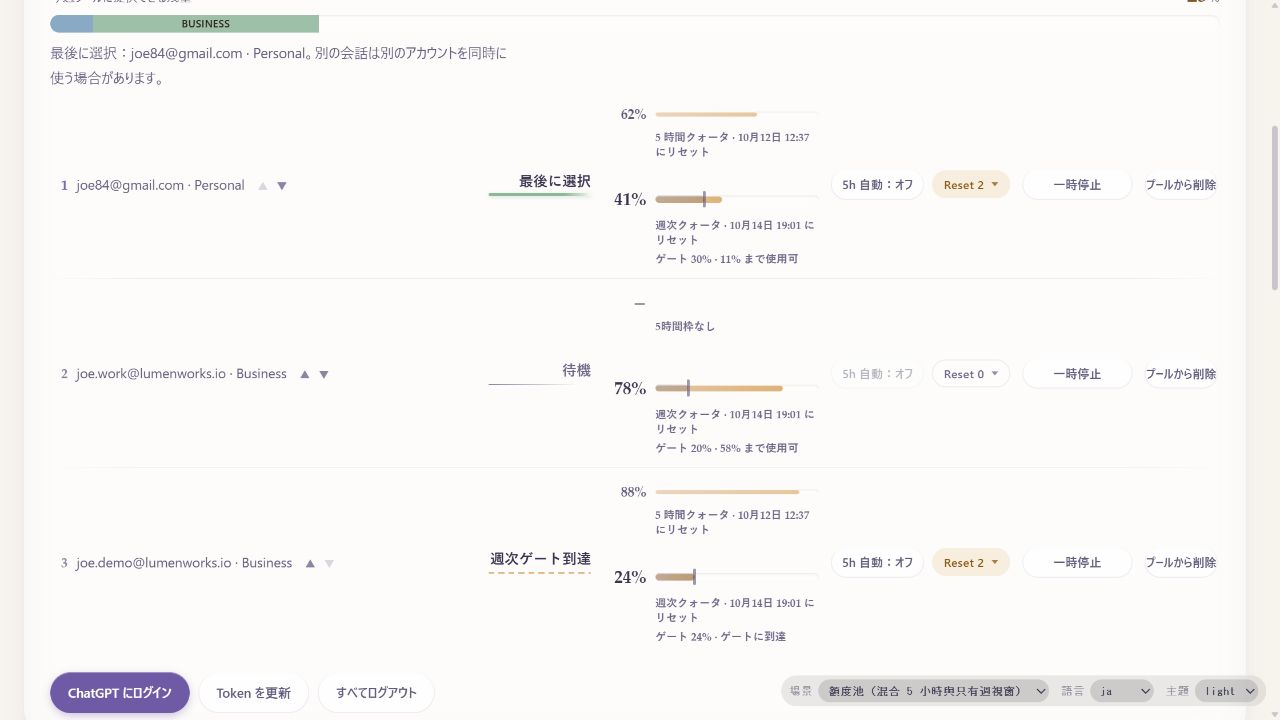
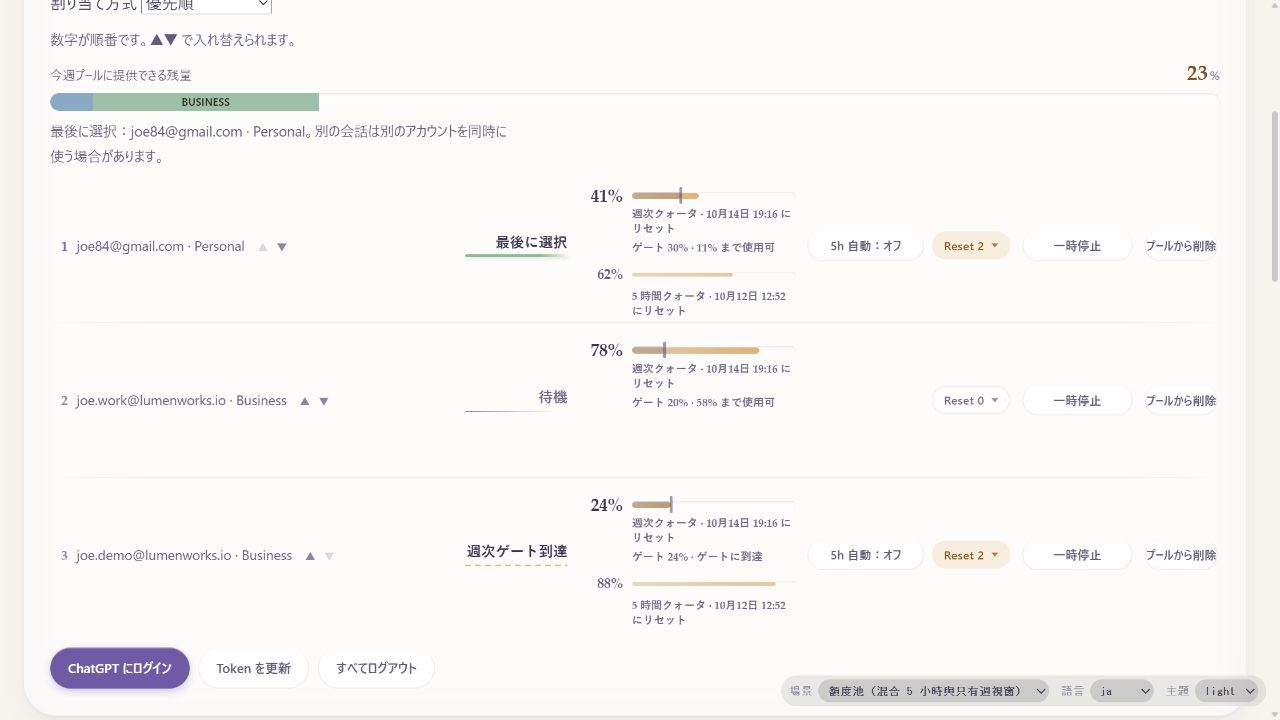
fix: align weekly quota without absent five-hour placeholders

diff --git a/src/i18n/locales/ja.ts b/src/i18n/locales/ja.ts
@@ -241,7 +241,7 @@ const ja: ResourceTree = {
       "pool": { "strategyLabel": "割り当て方式", "strategyRank": "優先順", "strategyBalanced": "スマート均等配分", "balancedHint": "新しい会話は、各アカウントの残り容量に対する進行中の context 負荷で配分します。アカウントの大きさはプラン（Plus 1x、Pro 20x）から始め、Vellum 経由の実測スループットが十分に貯まると置き換えます。既存の会話はキャッシュを保つため同じアカウントを優先します。番号は同点時の優先順です。", "lastSelected": "最後に選択：{{account}}。別の会話は別のアカウントを同時に使う場合があります。", "selectedLast": "最後に選択", "title": "クォータプール", "onHint": "プール内のアカウントが自動で引き受けます。各アカウントの週次枠の一部を予約として残せます。", "offHint": "オフの間は手動選択が続き、新しいリクエストは選択中のアカウントを使います。", "rules": "判定ルール", "rulesTitle": "クォータプールの判定ルール", "rankHint": "数字が順番です。▲▼ で入れ替えられます。", "availableThisWeek": "今週プールに提供できる残量", "availablePercent": "今週は {{value}}% まで利用可能", "currentAndNext": "現在は {{current}} を使用中。次は {{next}} です。", "stalled": "自動のクォータ判定を通過したアカウントはありません。送信時は有効なアカウントを試します。", "empty": "プールは空です。下のアカウントで「プールに追加」を押すとローテーションが始まります。", "using": "使用中", "next": "次", "standby": "待機", "outside": "プール外", "pause": "一時停止", "resume": "再開", "add": "プールに追加", "remove": "プールから削除", "moveUp": "順番を上げる", "moveDown": "順番を下げる", "burnable": "{{value}}% まで使用可", "atGate": "ゲートに到達", "gateRead": "ゲート {{floor}}%", "gateLabel": "{{account}} の週次ゲート", "gateValue": "ゲート {{floor}}%、今週の残り {{left}}%", "saveFailed": "クォータプールを保存できませんでした：{{detail}}", "reason": { "paused": "一時停止中", "weeklyGate": "週次ゲート到達", "fiveHour": "5 時間枠切れ", "missingQuota": "クォータ不明" }, "rule": { "smart": {"title": "スマート配分とキャッシュ", "body": "進行中の context 負荷を各アカウントの残り容量（週次と 5 時間枠の割合 × アカウントの大きさ。最初はプランから、その後は実測スループットから）と比較します。既存の会話は同じアカウントを維持し、明示的な新しい context window で再配分を検討します。キャッシュ率と context が大きいほど切り替え基準が上がります。クォータの基準を満たさない場合は切り替えます。会話を識別できない場合は優先順を使います。キャッシュは上流が制御し、token 推定は実際のクォータ消費量ではありません。"}, "gate": { "title": "ゲートは下限", "body": "週次ゲートに達した時点で自動利用を止め、ゲートより下の分は予約として残します。100% にするとそのアカウントには一切回しません。" }, "fiveHour": { "title": "5 時間枠は読み取り専用", "body": "これは上流側の制限です。使い切るとそのアカウントは待機し、リセット後に戻ります。" }, "order": { "title": "順番は自分で決める", "body": "数字がローテーションの順番です。▲▼ で調整します。今使えないアカウントは飛ばされ、ほかの順番は変わりません。" }, "pause": { "title": "一時停止と削除", "body": "一時停止は設定を残したまま一時的に外し、削除するとローテーションで使われなくなります。" }, "reset": { "title": "Reset は手動のみ", "body": "プールが Reset を自動で消費することはありません。手動でリセットしてもゲートの値はそのままです。" }, "empty": { "title": "自動切り替え先なし", "body": "プール内の全アカウントが制限された場合、手動で選択したアカウントを試し、上流の利用制限エラーを表示します。" } } },
       "oauth": { "code": "認証コード", "loginPage": "ログインページ", "browserHint": "ブラウザを開きました。認証後にこのページが更新されます。", "copied": "認証コードをコピーしました", "copyFailed": "コピーできませんでした。コードを手動で選択してください", "copy": "認証コードをコピー", "waiting": "認証を待機中…", "waitingBrowser": "ブラウザ認証を待機中", "login": "ChatGPT にログイン", "refreshToken": "Token を更新", "logoutAll": "すべてログアウト" },
       "account": { "active": "使用中", "authenticated": "ログイン済み", "current": "現在のアカウント", "useThis": "これを使用" }, "quota": { "failed": "クォータを取得できません", "loading": "クォータを確認中", "retry": "再確認" }, "reset": { "show": "失効日を表示", "hide": "失効日を隠す", "ledgerTitle": "利用上限のリセット", "noneUsable": "このアカウントに使える Reset はありません。", "untitled": "Reset 枠", "spent": "使用済み", "lapsed": "失効", "noExpiry": "失効日は返ってきていません", "failed": "Reset を確認できません", "loading": "Reset を確認中", "use": "リセットを使う" },
-      "fiveHour": { "unavailable": "5時間枠なし", "start": "5h を開始", "starting": "開始中…", "hint": "このアカウントでごく小さな Luna リクエストを 1 件送信し、5 時間の利用枠を開始します。少量のクォータを使用しますが、Reset 枠は消費しません。", "success": "5 時間の利用枠を開始し、使用量を更新しました。", "failed": "5 時間の利用枠を開始できませんでした：{{detail}}", "refreshFailed": "開始リクエストは完了しましたが、使用量を更新できませんでした：{{detail}}", "autoOn": "5h 自動：オン", "autoOff": "5h 自動：オフ", "autoHint": "現在のクォータと resetAt に基づいて 5 時間枠を継続します。旧枠が期限切れで週次残量がゲートを上回る場合のみ、Luna と最小 effort で極小リクエストを送信し、判断はエクスポート可能なログに記録します。" },
+      "fiveHour": { "start": "5h を開始", "starting": "開始中…", "hint": "このアカウントでごく小さな Luna リクエストを 1 件送信し、5 時間の利用枠を開始します。少量のクォータを使用しますが、Reset 枠は消費しません。", "success": "5 時間の利用枠を開始し、使用量を更新しました。", "failed": "5 時間の利用枠を開始できませんでした：{{detail}}", "refreshFailed": "開始リクエストは完了しましたが、使用量を更新できませんでした：{{detail}}", "autoOn": "5h 自動：オン", "autoOff": "5h 自動：オフ", "autoHint": "現在のクォータと resetAt に基づいて 5 時間枠を継続します。旧枠が期限切れで週次残量がゲートを上回る場合のみ、Luna と最小 effort で極小リクエストを送信し、判断はエクスポート可能なログに記録します。" },
       "grok": { "title": "Grok アカウント", "description": "Grok Build の新規リクエストは現在のアカウントを使用します。切り替えは即時反映され、実行中のリクエストは元のアカウントを使います。", "loginStatus": "ログイン状態", "browserHint": "公式 Grok CLI のログイン処理を開始しました。認証後にアカウントが追加されます。", "loginIncomplete": "公式ログイン処理が完了しませんでした。", "defaultAccount": "Grok CLI の既定アカウント", "externalCli": "外部 CLI", "managed": "Vellum 管理", "reauthenticate": "再認証", "refreshModels": "Grok モデルを再検出", "unlink": "リンク解除", "empty": "利用可能な Grok アカウントはありません。", "add": "Grok アカウントを追加" },
       "opencode": { "title": "OpenCode Zen", "description": "API key だけで接続できます。これは OpenCode 公式アプリが既定で表示する内容と同じで、無料モデルのみです。有料の Zen モデルにはこの接続では確認できない購入済みクレジットが必要なため、実際にお持ちの場合は下の手動 Add Provider フローで追加してください。", "descriptionGo": "API key だけで接続できます。OpenCode Go は別のエンドポイントを持つ独立した小さいカタログで、OpenCode Zen にある GPT/Claude/Gemini などの上位モデルは含まれません。お使いの key が Go プランの場合はこちらを選んでください。Go 自体のエンドポイントは無料モデルを受け付けないため、Vellum は OpenCode Zen の無料モデルも別の Provider として自動的に接続します。", "freeRouteName": "{{name}}（無料モデル）", "catalog": "カタログ", "catalogZen": "OpenCode Zen（無料モデル）", "catalogGo": "OpenCode Go", "catalogHint": "実際に契約しているプランを選んでください。Zen は無料モデルのみに接続し、Go は Go プランのカタログに加えて同じ無料モデルも自動的に接続します。", "apiKey": "OpenCode Zen API key", "apiKeyPlaceholder": "OpenCode Zen API key を貼り付け", "connect": "接続", "connecting": "接続中…", "connected": "接続済み" },
       "addProvider": { "title": "Provider を追加", "steps": { "endpoint": "エンドポイントを接続", "endpointHint": "Provider のモデル一覧を取得します。", "probe": "選択して検証", "probeHint": "モデルを選び、そのモデルの Codex プロトコル対応だけを検証します。", "add": "追加", "addHint": "結果を確認して Codex モデルカタログに追加します。" }, "endpoint": "エンドポイント URL", "apiKey": "API key（任意・暗号化保存）", "apiKeyPlaceholder": "ローカルまたはアカウント認証済みのエンドポイントは空欄で可", "startProbe": "モデル一覧を取得", "probing": "モデル一覧を取得中…", "add": "Provider を追加", "reprobe": "やり直す" },

diff --git a/src/i18n/locales/zh-CN.ts b/src/i18n/locales/zh-CN.ts
@@ -241,7 +241,7 @@ const zhCN: ResourceTree = {
       "pool": { "strategyLabel": "分配策略", "strategyRank": "按顺序", "strategyBalanced": "智能均衡", "balancedHint": "新对话按活跃 context 负载相对于各账号剩余容量来分配。账号大小先按方案估计（Plus 1x、Pro 20x），经 Vellum 路由的实测吞吐足够后改用实测值；已有对话优先保留账号与缓存。编号作为同分时的优先顺序。", "lastSelected": "最近选取：{{account}}。不同对话可能同时使用不同账号。", "selectedLast": "最近选取", "title": "额度池", "onHint": "池里的账号会自动接手；每个账号可以保留一段每周额度。", "offHint": "关闭时维持手动切换，新请求使用你选定的账号。", "rules": "判定规则", "rulesTitle": "额度池判定规则", "rankHint": "左边的编号就是顺序，用 ▲▼ 调整。", "availableThisWeek": "这周还可以自动取用", "availablePercent": "池内这周还可以自动取用 {{value}}%", "currentAndNext": "现在由 {{current}} 取用，接着是 {{next}}。", "stalled": "目前没有通过自动额度判断的账号；发送时仍会尝试有效账号。", "empty": "池是空的。从下面的账号点「加入池」才会开始自动轮替。", "using": "取用中", "next": "下一个", "standby": "待命", "outside": "未加入池", "pause": "暂停", "resume": "恢复", "add": "加入池", "remove": "移出池", "moveUp": "往前一个顺位", "moveDown": "往后一个顺位", "burnable": "可用 {{value}}%", "atGate": "已到门槛", "gateRead": "门槛 {{floor}}%", "gateLabel": "{{account}} 的每周门槛", "gateValue": "门槛 {{floor}}%，这周剩 {{left}}%", "saveFailed": "无法保存额度池：{{detail}}", "reason": { "paused": "已暂停", "weeklyGate": "每周窗到门槛", "fiveHour": "5 小时窗用完", "missingQuota": "额度数据不全" }, "rule": { "smart": {"title": "智能均衡与缓存", "body": "把活跃对话的 context 负载与各账号的剩余容量比较：周额度与 5 小时额度的可用比例 × 账号大小（先按方案估计，之后改用实测吞吐）。已有对话保持账号，遇到明确的新 context window 才评估重新分配；缓存命中越高、context 越大，切换门槛越高。账号不符合额度门槛时会换账号。无法识别对话时按顺序取用。缓存由上游决定，token 估计不等于实际额度消耗。"}, "gate": { "title": "门槛是保留下限", "body": "每周用量到门槛时就停手，门槛以下的额度留给你自己；设成 100% 就完全不交给自动轮替。" }, "fiveHour": { "title": "5 小时窗口只读", "body": "这是上游限流；归零时暂时轮不到，重置后会自动回来。" }, "order": { "title": "顺序由你决定", "body": "编号就是轮替顺序，用 ▲▼ 调整；暂时用不了的账号会被跳过，其余账号的先后不变。" }, "pause": { "title": "暂停与移出", "body": "暂停会保留设置但暂时不用；移出后自动轮替不会再碰它。" }, "reset": { "title": "不自动花掉 Reset", "body": "额度池不会自动消耗 Reset；手动重置后门槛维持原值。" }, "empty": { "title": "自动轮替无可用账号", "body": "池内账号都受限时，会尝试手动选择的账号，并显示上游返回的额度错误。" } } },
       "oauth": { "code": "授权码", "loginPage": "登录页面", "browserHint": "浏览器已打开，完成授权后这里会自动更新。", "copied": "授权码已复制", "copyFailed": "复制失败，请手动选择授权码", "copy": "复制授权码", "waiting": "等待授权…", "waitingBrowser": "等待浏览器授权", "login": "登录 ChatGPT", "refreshToken": "更新 Token", "logoutAll": "全部登出" },
       "account": { "active": "使用中", "authenticated": "已登录", "current": "当前账号", "useThis": "改用这个" }, "quota": { "failed": "额度查询失败", "loading": "额度查询中", "retry": "重新查询" }, "reset": { "show": "展开每张 Reset 的到期时间", "hide": "收起每张 Reset 的到期时间", "ledgerTitle": "用量上限重设", "noneUsable": "这个账号没有可用的 Reset。", "untitled": "Reset 额度", "spent": "已用掉", "lapsed": "已过期", "noExpiry": "上游没有给到期时间", "failed": "Reset 查询失败", "loading": "Reset 查询中", "use": "使用重置" },
-      "fiveHour": { "unavailable": "无 5 小时窗口", "start": "启动 5h", "starting": "启动中…", "hint": "使用这个账号发送一笔极小的 Luna 请求，以启动 5 小时用量窗口。会消耗少量额度，但不会使用 Reset。", "success": "已触发 5 小时窗口并刷新用量。", "failed": "无法触发 5 小时窗口：{{detail}}", "refreshFailed": "触发请求已完成，但无法刷新用量：{{detail}}", "autoOn": "5h 自动：开", "autoOff": "5h 自动：关", "autoHint": "根据当前额度和 resetAt 自动续接 5 小时窗口。仅在旧窗口已到期且每周额度仍高于门槛时，使用 Luna、最低 effort 发送一笔极小请求；判断会写入可导出的 Vellum 日志。" },
+      "fiveHour": { "start": "启动 5h", "starting": "启动中…", "hint": "使用这个账号发送一笔极小的 Luna 请求，以启动 5 小时用量窗口。会消耗少量额度，但不会使用 Reset。", "success": "已触发 5 小时窗口并刷新用量。", "failed": "无法触发 5 小时窗口：{{detail}}", "refreshFailed": "触发请求已完成，但无法刷新用量：{{detail}}", "autoOn": "5h 自动：开", "autoOff": "5h 自动：关", "autoHint": "根据当前额度和 resetAt 自动续接 5 小时窗口。仅在旧窗口已到期且每周额度仍高于门槛时，使用 Luna、最低 effort 发送一笔极小请求；判断会写入可导出的 Vellum 日志。" },
       "grok": { "title": "Grok 账号", "description": "Grok Build 的新请求会使用当前账号。切换立即生效，进行中的请求不会中途更换账号。", "loginStatus": "登录状态", "browserHint": "官方 Grok CLI 已启动登录流程；完成授权后会自动加入账号。", "loginIncomplete": "官方登录流程尚未完成。", "defaultAccount": "Grok CLI 默认账号", "externalCli": "外部 CLI", "managed": "Vellum 管理", "reauthenticate": "重新验证", "refreshModels": "重新探测 Grok 模型", "unlink": "解除关联", "empty": "目前没有可用的 Grok 账号。", "add": "添加 Grok 账号" },
       "opencode": { "title": "OpenCode Zen", "description": "只要填入 API key 就能连接。这里默认与 OpenCode 官方 App 一致，只显示免费模型。付费 Zen 模型需要购买额度，而这条连接无法查证，如果你确实有购买，请改用下方手动加入 Provider 的流程。", "descriptionGo": "只要填入 API key 就能连接。OpenCode Go 是另一个端点上独立的小型模型库，不包含 OpenCode Zen 的 GPT／Claude／Gemini 等高阶模型；如果你的 key 属于 Go 订阅，就选这个。Go 的端点不接受免费模型，所以 Vellum 会另外把 OpenCode Zen 的免费模型接成第二个 Provider。", "freeRouteName": "{{name}}（免费模型）", "catalog": "模型库", "catalogZen": "OpenCode Zen（免费模型）", "catalogGo": "OpenCode Go", "catalogHint": "请选择你实际拥有的方案。Zen 只连接免费模型；Go 连接 Go 方案的模型库，并自动附带同样的免费模型。", "apiKey": "OpenCode Zen API key", "apiKeyPlaceholder": "粘贴 OpenCode Zen API key", "connect": "连接", "connecting": "连接中…", "connected": "已连接" },
       "addProvider": { "title": "加入 Provider", "steps": { "endpoint": "连接端点", "endpointHint": "获取 Provider 提供的模型列表。", "probe": "选择并验证", "probeHint": "先选择要导入的模型，再只针对该模型验证 Codex 协议能力。", "add": "加入", "addHint": "确认结果并加入 Codex 模型菜单。" }, "endpoint": "端点网址", "apiKey": "API key（选填，加密存放）", "apiKeyPlaceholder": "本机或使用账号登录的端点可留空", "startProbe": "获取模型列表", "probing": "正在获取模型列表…", "add": "加入 Provider", "reprobe": "重新开始" },

diff --git a/src/screens/Models.tsx b/src/screens/Models.tsx
@@ -200,13 +200,13 @@ export function AccountQuota({
   t,
   resetLabel,
   gate = null,
-  reserveFiveHour = false,
+  officialLayout = false,
 }: {
   windows: AccountQuotaPresentation[];
   t: Translate;
   resetLabel: (iso: string | null) => string;
   gate?: AccountQuotaGate | null;
-  reserveFiveHour?: boolean;
+  officialLayout?: boolean;
 }) {
   const binding = windows.reduce<AccountQuotaPresentation | null>(
     (tightest, window) =>
@@ -214,14 +214,8 @@ export function AccountQuota({
     null,
   );
   return (
-    <span className={`acct__quota${reserveFiveHour ? " acct__quota--official" : ""}`}>
-      {reserveFiveHour && !windows.some(isFiveHourQuota) ? (
-        <span className="acct__quota-window acct__quota-window--placeholder">
-          <span className="acct__quota-line"><strong aria-hidden="true">—</strong></span>
-          <small>{t("models.ui.fiveHour.unavailable")}</small>
-        </span>
-      ) : null}
-      {windows.map((window) => {
+    <span className={`acct__quota${officialLayout ? " acct__quota--official" : ""}`}>
+      {(officialLayout ? [...windows].sort((a, b) => Number(isWeeklyQuota(b)) - Number(isWeeklyQuota(a))) : windows).map((window) => {
         // 閘門只設在每週窗。5 小時窗與每週窗的換算會改，拿它當設定值等於把
         // 一個會變的比例寫進使用者的設定裡；每週窗才是硬標準。
         const gated = gate && isWeeklyQuota(window) ? gate : null;
@@ -1700,7 +1694,7 @@ export function Models({
                       </span>
                     }
                   >
-                    <span className={`acct${entry.member.paused ? " acct--paused" : ""}`}>
+                    <span className={`acct acct--official${entry.member.paused ? " acct--paused" : ""}`}>
                       <State
                         tone={
                           rank === 1
@@ -1714,7 +1708,7 @@ export function Models({
                       <span className="acct__actions">
                         {quotaWindows.length ? (
                           <AccountQuota
-                            reserveFiveHour
+                            officialLayout
                             windows={quotaWindows}
                             t={t}
                             resetLabel={resetLabel}
@@ -1754,11 +1748,11 @@ export function Models({
                           </Pill>
                         )}
                         <span className="acct__resets">
-                          <Btn
+                          {entry.fiveHour ? <Btn
                             soft
                             mini
-                            disabled={!entry.fiveHour || quotaPoolBusy || oauthBusy}
-                            title={t(entry.fiveHour ? "models.ui.fiveHour.autoHint" : "models.ui.fiveHour.unavailable")}
+                            disabled={quotaPoolBusy || oauthBusy}
+                            title={t("models.ui.fiveHour.autoHint")}
                             onClick={() =>
                               updatePoolMember(account.accountId, (member) => ({
                                 ...member,
@@ -1771,7 +1765,7 @@ export function Models({
                                 ? "models.ui.fiveHour.autoOn"
                                 : "models.ui.fiveHour.autoOff",
                             )}
-                          </Btn>
+                          </Btn> : null}
                           {resetError || !credits ? (
                             <Pill tone={resetError ? "warn" : "quiet"}>
                               {resetError ? t("models.ui.reset.failed") : t("models.ui.reset.loading")}
@@ -1888,14 +1882,14 @@ export function Models({
               );
               return (
                 <Row key={account.accountId} label={accountLabel}>
-                  <span className="acct">
+                  <span className="acct acct--official">
                     <State
                       tone={isVerifiedCurrent ? "ok" : "quiet"}
                       label={isVerifiedCurrent ? t("models.ui.account.active") : t("models.ui.account.authenticated")}
                     />
                     <span className="acct__actions">
                       {quotaWindows.length ? (
-                        <AccountQuota reserveFiveHour windows={quotaWindows} t={t} resetLabel={resetLabel} />
+                        <AccountQuota officialLayout windows={quotaWindows} t={t} resetLabel={resetLabel} />
                       ) : (
                         <Pill tone={quotaError ? "warn" : "quiet"}>
                           {quotaError ? t("models.ui.quota.failed") : t("models.ui.quota.loading")}
@@ -1907,11 +1901,11 @@ export function Models({
                           個按不動的把手。重試接在同一格，不另外占一欄：那顆
                           按鈕只在出錯時存在，常設欄位會讓整列平常空一格。 */}
                       <span className="acct__resets">
-                        <Btn
+                        {quotaWindows.some(isFiveHourQuota) ? <Btn
                           soft
                           mini
-                          disabled={!quotaWindows.some(isFiveHourQuota) || quotaPoolBusy || oauthBusy}
-                          title={t(quotaWindows.some(isFiveHourQuota) ? "models.ui.fiveHour.autoHint" : "models.ui.fiveHour.unavailable")}
+                          disabled={quotaPoolBusy || oauthBusy}
+                          title={t("models.ui.fiveHour.autoHint")}
                           onClick={() =>
                             updatePoolMember(account.accountId, (member) => ({
                               ...member,
@@ -1924,7 +1918,7 @@ export function Models({
                               ? "models.ui.fiveHour.autoOn"
                               : "models.ui.fiveHour.autoOff",
                           )}
-                        </Btn>
+                        </Btn> : null}
                         {resetError || !credits ? (
                           <Pill tone={resetError ? "warn" : "quiet"}>
                             {resetError

diff --git a/src/i18n/locales/zh-TW.ts b/src/i18n/locales/zh-TW.ts
@@ -249,7 +249,7 @@ const zhTW: ResourceTree = {
       "oauth": { "code": "授權碼", "loginPage": "登入頁面", "browserHint": "瀏覽器已開啟，完成授權後這裡會自動更新。", "copied": "授權碼已複製", "copyFailed": "複製失敗，請手動選取授權碼", "copy": "複製授權碼", "waiting": "等待授權…", "waitingBrowser": "等待瀏覽器授權", "login": "登入 ChatGPT", "refreshToken": "更新 Token", "logoutAll": "全部登出" },
       "account": { "active": "使用中", "authenticated": "已登入", "current": "目前帳號", "useThis": "改用這個" },
       "quota": { "failed": "額度查詢失敗", "loading": "額度查詢中", "retry": "重新查詢" }, "reset": { "show": "展開每張 Reset 的到期時間", "hide": "收起每張 Reset 的到期時間", "ledgerTitle": "用量上限重設", "noneUsable": "這個帳號沒有可用的 Reset。", "untitled": "Reset 額度", "spent": "已用掉", "lapsed": "已過期", "noExpiry": "上游沒有給到期時間", "failed": "Reset 查詢失敗", "loading": "Reset 查詢中", "use": "使用重置" },
-      "fiveHour": { "unavailable": "無 5 小時視窗", "start": "啟動 5h", "starting": "啟動中…", "hint": "使用這個帳號送出一筆極小的 Luna 請求，以啟動 5 小時用量視窗。會消耗少量額度，但不會使用 Reset。", "success": "已觸發 5 小時視窗並重新讀取用量。", "failed": "無法觸發 5 小時視窗：{{detail}}", "refreshFailed": "觸發請求已完成，但無法重新讀取用量：{{detail}}", "autoOn": "5h 自動：開", "autoOff": "5h 自動：關", "autoHint": "依目前額度與 resetAt 自動續接 5 小時視窗。只有舊視窗已到期且每週額度仍高於閘門時，才用 Luna、最低 effort 送出一筆極小請求；判斷會寫入可匯出的 Vellum log。" },
+      "fiveHour": { "start": "啟動 5h", "starting": "啟動中…", "hint": "使用這個帳號送出一筆極小的 Luna 請求，以啟動 5 小時用量視窗。會消耗少量額度，但不會使用 Reset。", "success": "已觸發 5 小時視窗並重新讀取用量。", "failed": "無法觸發 5 小時視窗：{{detail}}", "refreshFailed": "觸發請求已完成，但無法重新讀取用量：{{detail}}", "autoOn": "5h 自動：開", "autoOff": "5h 自動：關", "autoHint": "依目前額度與 resetAt 自動續接 5 小時視窗。只有舊視窗已到期且每週額度仍高於閘門時，才用 Luna、最低 effort 送出一筆極小請求；判斷會寫入可匯出的 Vellum log。" },
       "grok": { "title": "Grok 帳號", "description": "Grok Build 的新請求會使用目前帳號。切換立刻生效，進行中的請求不會中途更換帳號。", "loginStatus": "登入狀態", "browserHint": "官方 Grok CLI 已啟動登入流程；完成授權後會自動加入帳號。", "loginIncomplete": "官方登入流程尚未完成。", "defaultAccount": "Grok CLI 預設帳號", "externalCli": "外部 CLI", "managed": "Vellum 管理", "reauthenticate": "重新驗證", "refreshModels": "重新偵測 Grok 模型", "unlink": "解除連結", "empty": "目前沒有可用的 Grok 帳號。", "add": "新增 Grok 帳號" },
       "opencode": { "title": "OpenCode Zen", "description": "只要填入 API key 就能連線。這裡預設跟 OpenCode 官方 App 一樣，只顯示免費模型。付費 Zen 模型需要購買額度，而這個連線無法查證，如果你確實有購買，請改用下方手動加入 Provider 的流程。", "descriptionGo": "只要填入 API key 就能連線。OpenCode Go 是另一個端點上獨立的小型模型庫，不含 OpenCode Zen 的 GPT／Claude／Gemini 等進階模型；如果你的 key 屬於 Go 訂閱，就選這個。Go 的端點不接受免費模型，所以 Vellum 會另外把 OpenCode Zen 的免費模型接成第二個 Provider。", "freeRouteName": "{{name}}（免費模型）", "catalog": "模型庫", "catalogZen": "OpenCode Zen（免費模型）", "catalogGo": "OpenCode Go", "catalogHint": "請選擇你實際擁有的方案。Zen 只連線免費模型；Go 連線 Go 方案的模型庫，並自動附帶同樣的免費模型。", "apiKey": "OpenCode Zen API key", "apiKeyPlaceholder": "貼上 OpenCode Zen API key", "connect": "連線", "connecting": "連線中…", "connected": "已連線" },
       "addProvider": { "title": "加入 Provider", "steps": { "endpoint": "連接端點", "endpointHint": "取得 Provider 提供的模型清單。", "probe": "選擇並驗證模型", "probeHint": "先選擇要匯入的模型，再針對該模型驗證 Codex 協定能力。", "add": "加入", "addHint": "確認結果並加入 Codex 模型選單。" }, "endpoint": "端點網址", "apiKey": "API key（選填，加密存放）", "apiKeyPlaceholder": "本機或用帳號登入的端點可留空", "startProbe": "取得模型清單", "probing": "正在取得模型清單…", "add": "加入 Provider", "reprobe": "重新設定" },

diff --git a/src/i18n/locales/en.ts b/src/i18n/locales/en.ts
@@ -250,7 +250,7 @@ const en: ResourceTree = {
       "account": { "active": "Active", "authenticated": "Signed in", "current": "Current account", "useThis": "Use this" },
       "quota": { "failed": "Quota lookup failed", "loading": "Checking quota…", "retry": "Check again" },
       "reset": { "show": "Show expiry dates", "hide": "Hide expiry dates", "ledgerTitle": "Usage limit resets", "noneUsable": "No usable Reset credit on this account.", "untitled": "Reset credit", "spent": "Used", "lapsed": "Expired", "noExpiry": "No expiry date given", "failed": "Reset lookup failed", "loading": "Checking Reset…", "use": "Use reset" },
-      "fiveHour": { "unavailable": "No 5-hour window", "start": "Start 5h", "starting": "Starting…", "hint": "Send one tiny Luna request on this account to start its 5-hour usage window. This uses a small amount of quota and does not spend a Reset credit.", "success": "The 5-hour window was triggered and usage was refreshed.", "failed": "Could not trigger the 5-hour window: {{detail}}", "refreshFailed": "The trigger request completed, but usage could not be refreshed: {{detail}}", "autoOn": "5h auto: on", "autoOff": "5h auto: off", "autoHint": "Keep the 5-hour window continuous using current quota and resetAt. Vellum sends one tiny Luna request at minimum effort only after the old window expires and weekly quota remains above its gate; decisions are recorded in exportable logs." },
+      "fiveHour": { "start": "Start 5h", "starting": "Starting…", "hint": "Send one tiny Luna request on this account to start its 5-hour usage window. This uses a small amount of quota and does not spend a Reset credit.", "success": "The 5-hour window was triggered and usage was refreshed.", "failed": "Could not trigger the 5-hour window: {{detail}}", "refreshFailed": "The trigger request completed, but usage could not be refreshed: {{detail}}", "autoOn": "5h auto: on", "autoOff": "5h auto: off", "autoHint": "Keep the 5-hour window continuous using current quota and resetAt. Vellum sends one tiny Luna request at minimum effort only after the old window expires and weekly quota remains above its gate; decisions are recorded in exportable logs." },
       "grok": { "title": "Grok accounts", "description": "New Grok Build requests use the current account. Switching is immediate; in-flight requests keep their original account.", "loginStatus": "Login status", "browserHint": "The official Grok CLI login flow is running; the account is added after authorization.", "loginIncomplete": "The official login flow did not finish.", "defaultAccount": "Grok CLI default account", "externalCli": "External CLI", "managed": "Managed by Vellum", "reauthenticate": "Re-authenticate", "refreshModels": "Refresh Grok models", "unlink": "Unlink", "empty": "No Grok accounts are available.", "add": "Add Grok account" },
       "opencode": { "title": "OpenCode Zen", "description": "Connect with just an API key. This matches what OpenCode's own app shows by default: only the free models. Paid Zen models need purchased credits this connection cannot verify, so they are left for the manual Add Provider flow below if you actually hold them.", "descriptionGo": "Connect with just an API key. OpenCode Go is a separate, smaller catalog behind its own endpoint — it does not include the premium GPT/Claude/Gemini models from OpenCode Zen, so this is the right choice when your key is a Go subscription. Vellum also connects OpenCode Zen's free models as a second Provider, since Go's own endpoint rejects them.", "freeRouteName": "{{name}} (Free models)", "catalog": "Catalog", "catalogZen": "OpenCode Zen (Free models)", "catalogGo": "OpenCode Go", "catalogHint": "Pick the plan you actually have. Zen connects only the free models; Go connects your Go-plan catalog, plus the same free models attached automatically.", "apiKey": "OpenCode Zen API key", "apiKeyPlaceholder": "Paste your OpenCode Zen API key", "connect": "Connect", "connecting": "Connecting…", "connected": "Connected" },
       "addProvider": { "title": "Add a Provider", "steps": { "endpoint": "Connect endpoint", "endpointHint": "Retrieve the Provider model catalog.", "probe": "Select and verify", "probeHint": "Choose a model, then verify only that model's Codex protocol capabilities.", "add": "Add", "addHint": "Confirm the result and add it to the Codex catalog." }, "endpoint": "Endpoint URL", "apiKey": "API key (optional; encrypted)", "apiKeyPlaceholder": "Leave blank for local or account-authenticated endpoints", "startProbe": "Get model list", "probing": "Retrieving model list…", "add": "Add Provider", "reprobe": "Start over" },

diff --git a/tests/account-quota-layout.test.tsx b/tests/account-quota-layout.test.tsx
@@ -12,21 +12,19 @@ const snapshot = (unit: "week" | "hour", usedPercent: number): QuotaSnapshot => 
 const t = (key: string) => key;
 
 describe("Official account quota slots", () => {
-  it("reserves the absent short window while the real weekly window remains binding", () => {
-    const { container } = render(<AccountQuota reserveFiveHour windows={accountQuotaWindows([snapshot("week", 22)])} t={t} resetLabel={() => "later"} />);
+  it("renders only the real weekly window when five-hour quota is absent", () => {
+    const { container } = render(<AccountQuota officialLayout windows={accountQuotaWindows([snapshot("week", 22)])} t={t} resetLabel={() => "later"} />);
     const slots = container.querySelectorAll(".acct__quota-window");
-    expect(slots).toHaveLength(2);
-    expect(slots[0]!.textContent).toContain("models.ui.fiveHour.unavailable");
-    expect(slots[0]!.classList.contains("acct__quota-window--lead")).toBe(false);
-    expect(slots[0]!.querySelector('[role="progressbar"]')).toBeNull();
-    expect(slots[1]!.textContent).toContain("78%");
-    expect(slots[1]!.classList.contains("acct__quota-window--lead")).toBe(true);
+    expect(slots).toHaveLength(1);
+    expect(slots[0]!.textContent).toContain("78%");
+    expect(slots[0]!.classList.contains("acct__quota-window--lead")).toBe(true);
   });
 
   it("keeps two real windows and selects the binding one without adding a placeholder", () => {
-    const { container } = render(<AccountQuota reserveFiveHour windows={accountQuotaWindows([snapshot("week", 22), snapshot("hour", 90)])} t={t} resetLabel={() => "later"} />);
+    const { container } = render(<AccountQuota officialLayout windows={accountQuotaWindows([snapshot("week", 22), snapshot("hour", 90)])} t={t} resetLabel={() => "later"} />);
     expect(container.querySelectorAll(".acct__quota-window")).toHaveLength(2);
     expect(container.querySelector(".acct__quota-window--placeholder")).toBeNull();
+    expect(container.querySelectorAll(".acct__quota-window")[0]!.textContent).toContain("78%");
     expect(container.querySelector(".acct__quota-window--lead")?.textContent).toContain("10%");
   });
 

diff --git a/src/styles/components.css b/src/styles/components.css
@@ -2449,6 +2449,10 @@ html[data-performance="low"] .card {
   align-items: center;
   justify-content: end;
 }
+.acct--official {
+  grid-template-columns: 7.6em minmax(13em, 16em) 15em 8.2em 5.4em;
+}
+.acct--official .acct__resets { width: 15em; flex: 0 0 15em; }
 .acct__actions {
   display: contents;
 }
@@ -2470,11 +2474,9 @@ html[data-performance="low"] .card {
   gap: 10px;
   min-width: 0;
 }
-/* Official accounts reserve the short-window slot even when it is absent.
-   rem units reserve vertical space without depending on Latin glyph widths. */
-.acct__quota--official { grid-template-rows: 4.5rem auto; }
-.acct__quota-window--placeholder { color: var(--ink-faint); }
-.acct__quota-window--placeholder .acct__quota-line strong { color: var(--ink-faint); }
+/* Keep the weekly window first in every Official row. The second track
+   maintains vertical alignment without rendering an absent 5h window. */
+.acct__quota--official { grid-template-rows: 4.5rem 3rem; }
 /* 數字一欄、量條一欄，說明字掛在量條那一欄：讀數的左緣對齊量條的左緣，
    不從百分比底下開始 —— 數字靠右貼著量條，說明字要是從欄位最左邊起頭，
    三樣東西就有兩條不同的左緣。 */
@@ -5289,11 +5291,13 @@ html[data-performance="low"] .card {
 /* ---------- ChatGPT 帳號的 Reset 到期清單 ---------- */
 
 .acct__resets {
-  display: inline-flex;
+  display: grid;
+  grid-template-columns: minmax(0, 1fr) auto;
+  width: 100%;
   align-items: center;
   gap: 8px;
-  justify-content: center;
 }
+.acct__resets > :last-child { grid-column: 2; }
 
 /* 托盤的把手。長得跟藥丸一樣，因為它本來就是那顆藥丸 —— 只是現在拉得動。
    刻意不做成 .btn：那一列已經有兩顆按鈕，第三顆會讓「Reset 3」看起來是一

diff --git a/tests/models-effort.test.tsx b/tests/models-effort.test.tsx
@@ -248,9 +248,6 @@ describe("Models screen Effort probe status", () => {
     await screen.findByRole("slider");
     expect(screen.queryByText(t("models.ui.pool.reason.missingQuota"))).toBeNull();
     expect(screen.queryByTitle(t("models.ui.fiveHour.autoHint"))).toBeNull();
-    const missingControl = screen.getByTitle(t("models.ui.fiveHour.unavailable"));
-    expect(missingControl.hasAttribute("disabled")).toBe(true);
-    expect(missingControl.getAttribute("title")).toBe(t("models.ui.fiveHour.unavailable"));
     expect(screen.getAllByRole("progressbar").some((meter) => meter.getAttribute("aria-valuenow") === "100")).toBe(true);
   });
 
